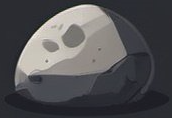
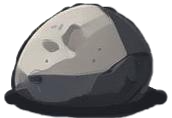
Add new jump object images, add collision check to jump objects, code clean up

diff --git a/moonjumper.js b/moonjumper.js
@@ -17,13 +17,13 @@ const spaceManWidth = 60;
 const spaceManHeight = 127;
 const spaceManX = boardWidth / 10;
 const spaceManY = boardFloor - spaceManHeight;
+let spaceManImg;
 
 //lander properties
 const landerWidth = 208;
 const landerHeight = 182;
 const landerX = boardWidth;
 const landerY = boardFloor - landerHeight;
-
 let landerImg;
 
 
@@ -32,7 +32,6 @@ const rockSmallWidth = 50;
 const rockSmallHeight = 60;
 const rockSmallX = boardWidth;
 const rockSmallY = boardFloor - rockSmallHeight;
-
 let rockSmallImg;
 
 
@@ -41,40 +40,25 @@ const rockLargeWidth = 106;
 const rockLargeHeight = 100;
 const rockLargeX = boardWidth;
 const rockLargeY = boardFloor - rockLargeHeight;
-
 let rockLargeImg;
 
-
-
-// debug
-let debugArray = [];
-let countUpdate = 0;
-
-// //jump objects array
+//jump objects array
 let jumpObjectArray = [];
 
-// space man object
+//space man object
 let spaceMan = {
     x: spaceManX,
     y: spaceManY,
     width: spaceManWidth,
     height: spaceManHeight,
     onFloor: false
-}
+};
 
-
-//object lander
-let lander = {
-    x: landerX,
-    y: landerY,
-    width: landerWidth,
-    height: landerHeight
-}
 
 // physics
 let velocityX = -2; // jumping objects moving left speed
 let velocityY = 0; // spaceman jump speed
-let gravity = .3;
+let gravity = 0.3;
 
 
 // ON WINDOW LOAD
@@ -95,7 +79,7 @@ window.onload = function () {
     spaceManImg.src = "./spaceman.png";
     spaceManImg.onload = function () {
         context.drawImage(spaceManImg, spaceMan.x, spaceMan.y, spaceMan.width, spaceMan.height);
-    }
+    };
 
     rockSmallImg = new Image();
     rockSmallImg.src = "./rock_small.png";
@@ -105,9 +89,7 @@ window.onload = function () {
 
     landerImg = new Image();
     landerImg.src = "./lander_small.png";
-}
-
-
+};
 
 
 // call animation frame to draw a rectangle to clear the previous frames
@@ -123,7 +105,6 @@ function update() {
     // set the new space man image on the update
     spaceMan.y = Math.max(0, spaceMan.y + velocityY); // stop space man from jumping over the board height
     spaceMan.y = Math.min(spaceManY, spaceMan.y); // stop space man from moving past the floor
-    // context.fillRect(spaceMan.x, spaceMan.y, spaceMan.width, spaceMan.height);   -- old remove this when image is working
     context.drawImage(spaceManImg, spaceMan.x, spaceMan.y, spaceMan.width, spaceMan.height);
 
     // check if space man is on the floor to allow jumping
@@ -136,12 +117,11 @@ function update() {
     }
 
     // move objects each frame
-    console.table(jumpObjectArray);
+    // console.table(jumpObjectArray);
     for (let i = 0; i < jumpObjectArray.length; i++) {
         let jumpObjectCurrent = jumpObjectArray[i]; // pass all object properties of array to jumpObject
         jumpObjectCurrent.x += velocityX;
 
-        // context.fillRect(jumpObject.x, lander.y, lander.width, lander.height);
         if (jumpObjectCurrent.objectNumber == 0) {
             //small rock
             context.drawImage(rockSmallImg, jumpObjectCurrent.x, jumpObjectCurrent.y, jumpObjectCurrent.width, jumpObjectCurrent.height);
@@ -151,9 +131,25 @@ function update() {
         } else if (jumpObjectCurrent.objectNumber == 2) {
             //lander 
             context.drawImage(landerImg, jumpObjectCurrent.x, jumpObjectCurrent.y, jumpObjectCurrent.width, jumpObjectCurrent.height);
-            // context.drawImage(rockSmallImg, jumpObject.x, lander.y, lander.width, lander.height);
         }
+
+        // code copy kennyYip
+        // if (!pipe.passed && bird.x > pipe.x + pipe.width) {
+        //     score += 0.5; //0.5 because there are 2 pipes! so 0.5*2 = 1, 1 for each set of pipes
+        //     pipe.passed = true;
+        // }
+
+        if (detectCollision(spaceMan, jumpObjectCurrent)) {
+            // gameOver = true;
+            console.log("collision!!")
+        }
+
     }
+
+
+
+
+
 
     // draw jet pack fuel level
     context.strokeRect(fuelLevelX, fuelLevelY, fuelLevelWidth, fuelLevelHeight);
@@ -166,7 +162,7 @@ function manageJetPack() {
     if (fuelLevelCurrent <= 0 && fuelLevelCurrent > -100) {
         fuelLevelCurrent = fuelLevelCurrent - 5;
     }
-    console.log("fuelLevel" + fuelLevelCurrent);
+    // console.log("fuelLevel" + fuelLevelCurrent);
 }
 
 // function to create new objects to jump
@@ -183,7 +179,7 @@ function placeJumpObjects() {
         y: 0,
         width: 0,
         height: 0
-    }
+    };
 
     jumpObjectNum = randomJumpObjects();
 
@@ -219,7 +215,7 @@ function jumpSpaceMan(event) {
     if (event.code == "Space" && spaceMan.onFloor) {
         //jump
         velocityY = -10;
-        keypress = 'Space'
+        keypress = 'Space';
     }
 }
 
@@ -227,30 +223,19 @@ function rocketSpaceMan(event) {
     if (event.code == "ControlLeft" && fuelLevelCurrent < 0) {
         // rocket jump
         velocityY = -7;
-        keypress = 'ControlLeft'
-        console.log(fuelLevelCurrent);
+        keypress = 'ControlLeft';
+        // console.log(fuelLevelCurrent);
 
         fuelLevelCurrent = Math.min(0, fuelLevelCurrent + 10);
     }
 }
 
-// function to manage the jet fuel usage of space man
-// function jetFuel() {
-//     let 
-
-// }
-
-// function funDebugArray() {
-//     let debugArrayObject = {
-//         x: spaceMan.x,
-//         y: spaceMan.y,
-//         veloY: velocityY,
-//         g: gravity,
-//         key: keypress,
-//         onFloor: spaceMan.onFloor,
-//         updatecnt: countUpdate
-//     }
-
-
-//     debugArray.push(debugArrayObject);
-//     console.table(debugArray);
+// code copy ImKennyYip
+function detectCollision(a, b) {
+    return a.x < b.x + b.width && //a's top left corner doesn't reach b's top right corner
+        a.x + a.width > b.x && //a's top right corner passes b's top left corner
+        a.y < b.y + b.height && //a's top left corner doesn't reach b's bottom left corner
+        a.y + a.height > b.y; //a's bottom left corner passes b's top left corner
+}
+// return a.x + a.width < b.x && // A x does not cross B x
+//         a.y + a.height < b.y && // A y is higher than B y
